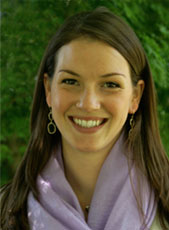
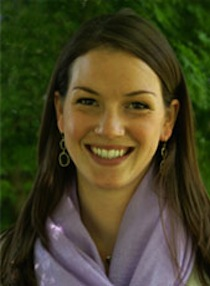
updated about page

diff --git a/app/about.html b/app/about.html
@@ -26,7 +26,7 @@
 		</div>
 		<div class="main-nav">
 			<ul>
-				<li class="nav-item">
+				<li class="nav-item active">
 					<a href="about.html">About</a>
 				</li>
 				<li class="nav-item">
@@ -43,27 +43,23 @@
 	</div>
 	<div class="hr"></div> 
 		<div class="content-container">
-			<div class="row" id="about">
-				<div class="large-3 columns" id="image">
-					<img src="./images/christine.jpg" alt="Christine Guibara Photo" >
+			<div class="row">
+			<div class="large-5 columns"> 
+					<img src="./images/about_chrissy.jpg" alt="Christine Guibara Photo" >
 				</div>
-				<div class="large-9 columns vert-pad" id="text">
-					<p>ABOUT</p>
-					<p>Christine Guibara derives her inspiration from the world around her. She believes the most breathtaking forms develop from nature and can be emulated, appreciated, and enhanced through design. As a result, many of her pieces take on a raw and organic characteristic that has come to define her high quality work. Christine’s upbringing and education played intimate roles in shaping her career as a jeweler. During her youth, she spent countless hours at her father’s sculpting studio learning different artistic techniques and expanded her creative skills by helping her mother with interior design. Christine grew up in Northern California and is currently based in Burlingame near San Francisco. She holds a Bachelor of Arts degree in Business Economics from UCLA, and received graduate degrees from both the Fashion Institute of Design and Merchandising in Los Angeles and the Revere Academy of Jewelry Arts in San Francisco. All of these experiences have given her a variety of perspectives and skills to draw from in her own collection.</p>
+				<div class="large-7 columns">
+					<p class="words about"><span class="strong">ABOUT -- </span>Christine Guibara derives her inspiration from the world around her. She believes the most breathtaking forms develop from nature and can be emulated, appreciated, and enhanced through design. As a result, many of her pieces take on a raw and organic characteristic that has come to define her high quality work. Christine’s upbringing and education played intimate roles in shaping her career as a jeweler. During her youth, she spent countless hours at her father’s sculpting studio learning different artistic techniques and expanded her creative skills by helping her mother with interior design. Christine grew up in Northern California and is currently based in Burlingame near San Francisco. She holds a Bachelor of Arts degree in Business Economics from UCLA, and received graduate degrees from both the Fashion Institute of Design and Merchandising in Los Angeles and the Revere Academy of Jewelry Arts in San Francisco.</p>
 				</div>
 			</div>
 			<div class="row">
-				<div class="large-9 columns">
-				<p class="space">MATERIALS</p>
-				<p>The quality of materials is of utmost importance to Christine. She handpicks each stone from the best suppliers in the industry. She chooses the highest quality stones available with little or no treatments after mining. Christine highlights her interest in preserving natural resources through the use of many untreated and reclaimed materials. The metals Christine works with are no exception to her standards. She works with high karat gold and Argentium sterling silver, paying close attention to the alloys and origins of each metal. Platinum is also available for custom work.</p>
+				<div class="large-7 columns">
+				<!-- <p class="words about">MATERIALS</p> -->
+				<p class="words about"><span class="strong">MATERIALS -- </span> The quality of materials is of utmost importance to Christine. She handpicks each stone from the best suppliers in the industry. She chooses the highest quality stones available with little or no treatments after mining. Christine highlights her interest in preserving natural resources through the use of many untreated and reclaimed materials. The metals Christine works with are no exception to her standards. She works with high karat gold and Argentium sterling silver, paying close attention to the alloys and origins of each metal. Platinum is also available for custom work.</p>
 				</div>
-				<div class="large-3 columns" id="image">
-					RESERVED FOR A MATERIAL IMAGE
-
+				<div class="large-5 columns home-pad" id="image">
+					<img src="./images/about_materials.jpg" alt="Christine Guibara Photo" >
 				</div>
 			</div>
-		</div>
-
 			<div class"footer row">
 					<div class="large-12 columns">
 					<p class="clear"> here is Chrissy's contact information</p>

diff --git a/app/collection.html b/app/collection.html
@@ -1,59 +1,46 @@
 <!DOCTYPE html>
-
-<!-- paulirish.com/2008/conditional-stylesheets-vs-css-hacks-answer-neither/ -->
-<!--[if IE 8]>
-<html class="no-js lt-ie9" lang="en">
-	<![endif]-->
-	<!--[if gt IE 8]>
-	<!-->
-	<html class="no-js" lang="en">
-		<!--<![endif]-->
+<!--[if IE 8]> <html class="no-js lt-ie9" lang="en" > <![endif]-->
+<!--[if gt IE 8]><!--> <html class="no-js" lang="en" > 
+<!--<![endif]-->
 <head>
-		<meta charset="utf-8" />
-		<meta name="viewport" content="width=device-width" />
-		<title>Christine Guibara</title>
-		<link rel="stylesheet" href="stylesheets/foundation.min.css">
-		<link rel="stylesheet" href="stylesheets/app.css">
-		<link rel="stylesheet" href="stylesheets/normalize.css">
-		<script src="javascripts/modernizr.foundation.js"></script>
-</head>
+<meta charset="utf-8" />
+<meta name="viewport" content="width=device-width" />
+<title>Christine Guibara</title>
 
+  
+<link rel="stylesheet" href="css/foundation.css" />
+<link rel="stylesheet" href="css/app.css"/>
+<link rel="stylesheet" href="css/normalize.css"/>
+<link href='http://fonts.googleapis.com/css?family=Open+Sans:300' rel='stylesheet' type='text/css'>
+  
+
+  <script src="js/vendor/custom.modernizr.js"></script>
+
+</head>
 <body>
-	<div class="container">
-		<div class="row">
-			<div class="twelve columns">
-				<div class="logo">
-					<a href="index.html"><img src="./images/logo_tan.png" alt="Christine Guibara Jewerly"></a>
-						<!-- remove P tag <img src="put image source for logo">-->
-				</div>
-			</div>
+	<div class="header">
+		<div class="logo">
+			<a href="index.html">
+				<img src="./images/logo_tan.png" alt="Christine Guibara Jewerly">
+			</a>
 		</div>
-			<div class="hr"> </div>
-				<div class="row">
-					<div class="twelve columns">
-						<div id="main-nav">
-							<ul>
-								<li class="nav-item active">
-								</li>
-								<li class="nav-item">
-									<a href="about.html">About</a>
-								</li>
-								<li class="nav-item">
-									<a href="collection.html">Collections</a>
-								</li>
-								<li class="nav-item">
-									<a href="press.html">Press</a>
-								</li>
-								<li class="nav-item">
-									<a href="http://www.etsy.com/shop/christineguibara">Shop</a>
-								</li>
-								<li class="nav-item">
-									<a href="contact.html">Contact</a>
-								</li>
-							</ul>
-						</div>
-					</div>
-				</div>
+		<div class="main-nav">
+			<ul>
+				<li class="nav-item active">
+					<a href="about.html">About</a>
+				</li>
+				<li class="nav-item">
+					<a href="collection.html">Collections</a>
+				</li>
+				<li class="nav-item">
+					<a href="press.html">Press</a>
+				</li>
+				<li class="nav-item">
+					<a href="http://www.etsy.com/shop/christineguibara">Shop</a>
+				</li>
+			</ul>
+		</div>
+	</div>
 			<div class="hr"></div>
 			<div class="row" id="about">
 				<div class="six columns border">

diff --git a/app/css/app.css b/app/css/app.css
@@ -4,13 +4,20 @@ font-family: Georgia, "Times New Roman", Times, serif;
 
 
 /*Overides*/
-p {
-	font-size: 16px;
-	letter-spacing: 1px;
-	
+
+.margin {
+	margin-bottom: 10px;
 }
 
+.about {
+	font-size: 14px;
+	letter-spacing: 1px;
+}
 
+.strong {
+	font-weight: bold;
+	color: #3E2B19;
+}
 /*Page Styling*/
 .header {
 	z-index: 100;
@@ -22,7 +29,7 @@ p {
 
 .content-container {
 	position: relative;
-	margin-top: 260px;
+	margin-top: 230px;
 	width: 1000px;
 	margin-right: auto;
 	margin-left: auto;
@@ -35,13 +42,10 @@ p {
 	padding-left: 65px;
 	margin-left: 70px;
 }
-.image_home {
-	width: 950px;
-	margin: 0 auto;
+.home-pad {
+	padding-top: 20px;
 }
-.quote {
-	border-left: 3px solid #3E2B19;
-}
+
 
 .words {
 	font-family: Georgia, "Times New Roman", Times, serif;

diff --git a/app/index.html b/app/index.html
@@ -45,14 +45,18 @@
 		</div>
 	</div>
 <div class="content-container">
-	<div class="image_home">
-		<img src="./images/home_hands.jpg">
-	</div>
-	<div class="image_home">
-	<img src="./images/home_tools.jpg">
+	<div class-"row">
+		<div class= "large-8 columns">
+			<img src="./images/home_working.jpg">
 		</div>
-	<div class="image_home">
-		<img src="./images/home_working.jpg">
+		<div class= "large-4 columns">
+			<img src="./images/home_hands.jpg">
+		</div>
+		<div class="row">
+			<div class="large-4 columns home-pad">
+				<img src="./images/home_tools.jpg">
+			</div>
+		</div>
 	</div>
 </div>
 	
